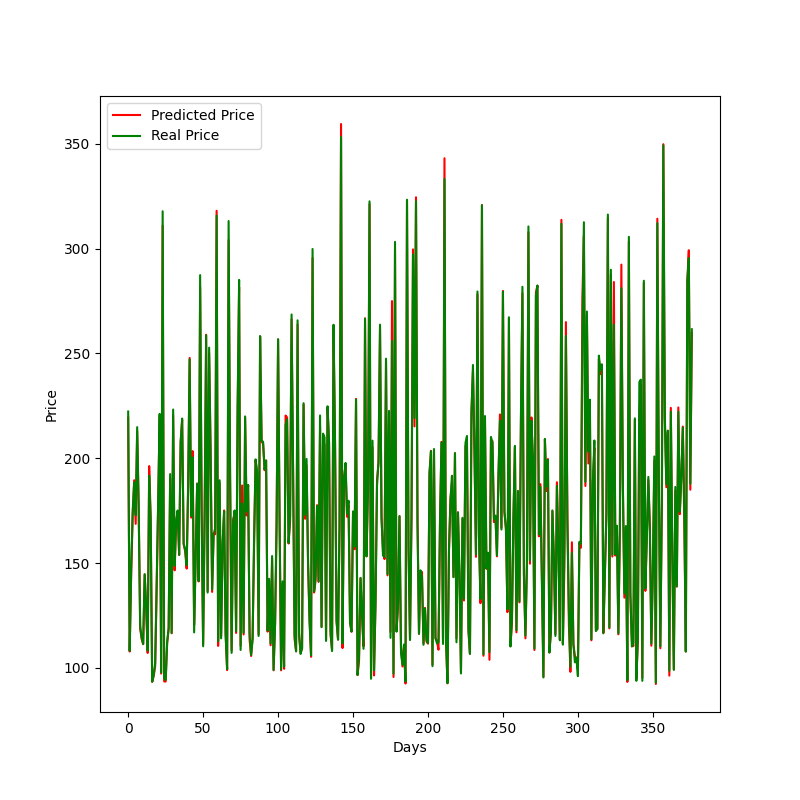
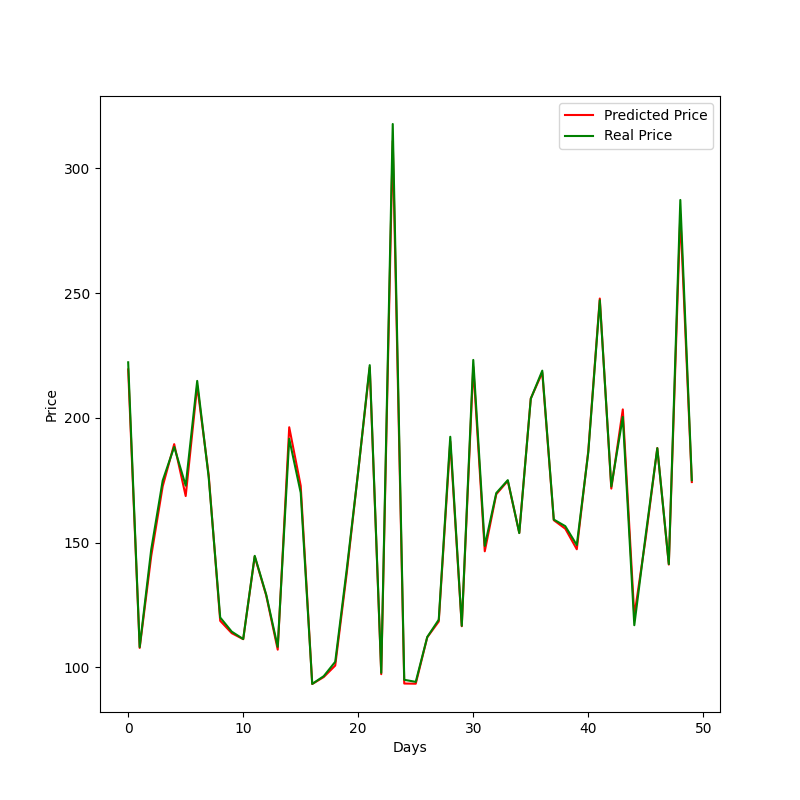
push

diff --git a/test_RNN.py b/test_RNN.py
@@ -125,8 +125,8 @@ def plot_acc(y_pred,y_test):
     """
     print("Plotting Predicted and Real prices..")
     plt.figure(figsize=(8,8))
-    plt.plot(y_pred, "r")
-    plt.plot(y_test,"g")
+    plt.plot(y_pred[0:50], "r")
+    plt.plot(y_test[0:50],"g")
     plt.legend(["Predicted Price","Real Price"])
     plt.xlabel("Days")
     plt.ylabel("Price")
@@ -141,6 +141,12 @@ X_test,y_test=preprocess_test(X_test,y_test,X_scalar,y_scalar)
 
 # Predicting the price for next day using lstm for test data and calculating loss.
 y_pred,y_test=pred(os.path.join("models/","20831774_RNN_model.h5"),X_test,y_test,y_scalar)
+
+y_pred_df=pd.DataFrame(y_pred,columns=['Predicted Price'])
+y_test_df=pd.DataFrame(y_test,columns=['Real Price'])
+
+y_df=pd.concat([y_pred_df.reset_index(drop=True),y_test_df.reset_index(drop=True)],axis=1)
+print(y_df.head(10))
 
 # MAE,MSE,RMSE from utils call for test data 
 print("\n\nDifferent Losses after inverting the prices to real scale for Test Data: \n")

diff --git a/README.md b/README.md
@@ -227,3 +227,20 @@ dense_3 (Dense)        |      (None, 1)            |     11
     - Test RMSE : 3.3310599438666264
     - Test MSE :  11.095960349632731
     - Test MAE :  1.9516947819636419
+
+- Single layer LSTM with 64 units and a fully connected dense layer was selected as the best model.
+
+- Results follow :
+
+Index |Predicted Price | Real Price
+-----|-----|------
+0 |      219.458847 |  222.300003
+1  |     107.793739 |   108.139999
+2   |    144.538361  |  147.160004
+3    |   172.581924  |  174.880005
+4 |      189.496078  |  188.389999
+5  |     168.690308  |  172.860001
+6   |    212.865509  |  214.839996
+7 |      177.047348  |  176.149994
+8  |     118.656799  |  120.000000
+9   |    113.719048  |  114.330002
